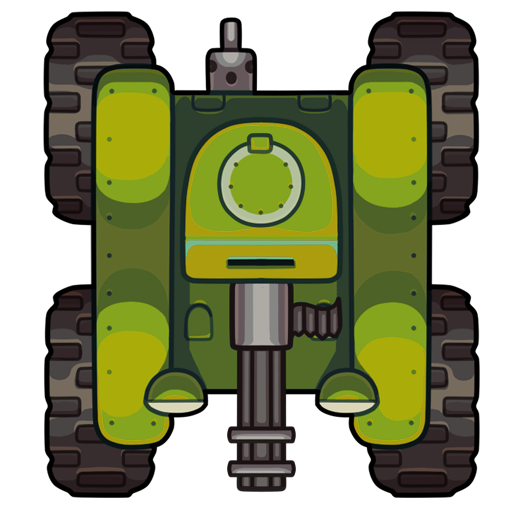
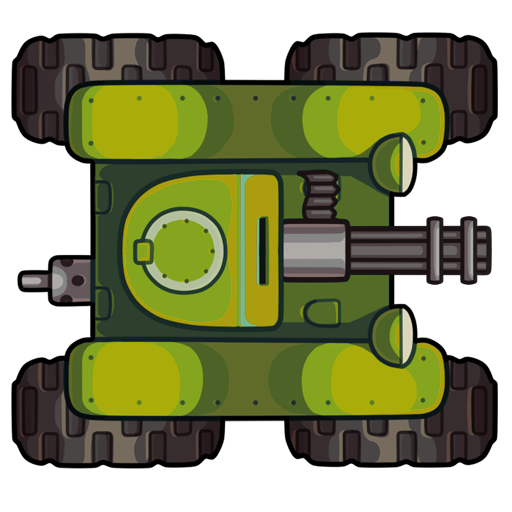
texture_display

diff --git a/src/game.cpp b/src/game.cpp
@@ -1,4 +1,6 @@
 #include "game.hpp"
+#include "assetStore.hpp"
+
 #include "logger.hpp"
 #include "ecs.hpp"
 #include "transformComponent.hpp"
@@ -6,7 +8,6 @@
 #include "movementSystem.hpp"
 #include "spriteComponent.hpp"
 #include "renderSystem.hpp"
-#include "assetStore.hpp"
 
 #include <iostream>
 #include <SDL2/SDL.h>
@@ -17,7 +18,7 @@ Game::Game() {
 	// Constructor implementation
 	isRunning = false;
 	registry = std::make_unique<Registry>();
-	assetStore = std::make_unique<assetStore>();
+	assetStore = std::make_unique<AssetStore>();
 	Logger::Log("Game object created!");
 }
 
@@ -107,20 +108,20 @@ void Game::Setup() {
 	registry->addSystem<renderSystem>();
 
 	// Load assets into the asset store
-	assetStore->addTexture("tank_blue", "./libs/assets/tank_top_blue.png");
-	assetStore->addTexture("tank_green", "./libs/assets/tank_top_green.png");
+	assetStore->addTexture(renderer, "tank_blue", "./libs/assets/tank_top_blue.png");
+	assetStore->addTexture(renderer, "tank_green", "./libs/assets/tank_top_green.png");
 
 	// Create entities and add components to them
 	Entity tank = registry->createEntity();
-	tank.addComponent<transformComponent>(glm::vec2(10.0, 20.0), glm::vec2(1.0, 1.0), 0.0);
-	tank.addComponent<rigidBodyComponent>(glm::vec2(50.0, 0.0));
-	tank.addComponent<spriteComponent>("tank_green", 10.0, 10.0);
+	tank.addComponent<transformComponent>(glm::vec2(10.0, 100.0), glm::vec2(0.05, 0.05), 0.0);
+	tank.addComponent<rigidBodyComponent>(glm::vec2(0.0, 40.0));
+	tank.addComponent<spriteComponent>("tank_blue", 620, 691);
 
 	// Create entities and add components to them
 	Entity helicopter = registry->createEntity();
-	helicopter.addComponent<transformComponent>(glm::vec2(20.0, 50.0), glm::vec2(1.0, 1.0), 0.0);
-	helicopter.addComponent<rigidBodyComponent>(glm::vec2(0.0, 25.0));
-	helicopter.addComponent<spriteComponent>("tank_blue", 1.0, 30.0);
+	helicopter.addComponent<transformComponent>(glm::vec2(20.0, 50.0), glm::vec2(0.05, 0.05), 0.0);
+	helicopter.addComponent<rigidBodyComponent>(glm::vec2(40.0, 0.0));
+	helicopter.addComponent<spriteComponent>("tank_green", 512.0, 512.0);
 }
 
 void Game::Update() {
@@ -150,7 +151,7 @@ void Game::Render() {
 	SDL_RenderClear(renderer);
 
 	// Invoke all the system that need to render
-	registry->getSystem<renderSystem>().Update(renderer);
+	registry->getSystem<renderSystem>().Update(renderer, assetStore);
 
 	SDL_RenderPresent(renderer);
 }

diff --git a/src/renderSystem.hpp b/src/renderSystem.hpp
@@ -1,11 +1,12 @@
 #pragma once
 
-#include <SDL2/SDL.h>
-
 #include "ecs.hpp"
 #include "transformComponent.hpp"
 #include "rigidBodyComponent.hpp"
 #include "spriteComponent.hpp"
+#include "assetStore.hpp"
+
+#include <SDL2/SDL.h>
 
 class renderSystem : public System {
 public:
@@ -14,22 +15,34 @@ public:
 		requireComponent<spriteComponent>();
 	}
 
-	void Update(SDL_Renderer* renderer) {
+	void Update(SDL_Renderer* renderer, std::unique_ptr<AssetStore>& assetStore) {
 		// Update all entities with a transformComponent
 		for (auto entity : getSystemEntities()) {
 			// Update the entity's position based on its velocity
 			const auto transform = entity.getComponent<transformComponent>();
 			const auto sprite = entity.getComponent<spriteComponent>();
 
-			SDL_Rect objRect = {
+			// Set the source rectangle for the sprite texture
+			SDL_Rect srcRect = sprite.srcRect;
+
+			// Set the destination rectangle with x and y position for rendering the sprite texture
+			SDL_Rect dstRect = {
 				static_cast<int>(transform.position.x),
 				static_cast<int>(transform.position.y),
-				sprite.width,
-				sprite.height
+				static_cast<int>(sprite.width * transform.scale.x),
+				static_cast<int>(sprite.height* transform.scale.y)
 			};
-			SDL_SetRenderDrawColor(renderer, 255, 255, 255, 255);
-			SDL_RenderFillRect(renderer, &objRect);
 
+			// Render the PNG texture to the screen at the entity's position
+			SDL_RenderCopyEx(
+				renderer, 
+				assetStore->getTexture(sprite.assetId),
+				&srcRect,
+				&dstRect,
+				transform.rotation,
+				NULL,
+				SDL_FLIP_NONE
+			);
 		}
 	}
 };

diff --git a/src/assetStore.cpp b/src/assetStore.cpp
@@ -1,26 +1,35 @@
-#include "assetStorage.h"
+#include "assetStore.hpp"
 #include "logger.hpp"
 
-assetStore::assetStore() {
+#include <SDL2/SDL_image.h>
+
+AssetStore::AssetStore() {
 	Logger::Log("Asset Store constructor created");
 }
 
-assetStore::~assetStore() {
+AssetStore::~AssetStore() {
+	clearAssets();
 	Logger::Log("Asset Store destructor called");
 }
 
-void assetStore::clearAssets() {
-
+void AssetStore::clearAssets() {
+	for(auto texture : textures) {
+		SDL_DestroyTexture(texture.second);
+	}
+	textures.clear();
 }
 
-void assetStore::clearAssets() {
+void AssetStore::addTexture(SDL_Renderer* renderer, const std::string& assetId, const std::string& filePath) {
+	SDL_Surface* surface = IMG_Load(filePath.c_str());
+	SDL_Texture * texture = SDL_CreateTextureFromSurface(renderer, surface);
+	SDL_FreeSurface(surface);
 
+	// Add texture to the map
+	textures[assetId] = texture;
 }
 
-void assetStore::addTexture(const std::string& assetId, const std::string& filePath) {
+SDL_Texture* AssetStore::getTexture(const std::string& assetId) {
+	return textures[assetId];
 
-}
-
-SDL_Texture* assetStore::getTexture(const std::string& assetId) const {
-
+	Logger::Log("New texture with assetId: " + assetId + " added to asset store");
 }

diff --git a/src/assetStore.hpp b/src/assetStore.hpp
@@ -4,17 +4,17 @@
 #include <string>
 #include <SDL2/SDL.h>
 
-class assetStore {
+class AssetStore {
 	private:
 		std::map<std::string, SDL_Texture*> textures;
 		// TODO: create a map for fonts and sounds
 		// TODO: create a map for music, audio etc
 
 	public:
-		assetStore();
-		~assetStore();
+		AssetStore();
+		~AssetStore();
 
 		void clearAssets();
-		void addTexture(const std::string& assetId, const std::string& filePath);
-		SDL_Texture* getTexture(const std::string& assetId) const;
+		void addTexture(SDL_Renderer* renderer, const std::string& assetId, const std::string& filePath);
+		SDL_Texture* getTexture(const std::string& assetId);
 };

diff --git a/src/spriteComponent.hpp b/src/spriteComponent.hpp
@@ -1,11 +1,19 @@
 #pragma once
 
+#include <string>
+#include <SDL2/SDL.h>
+
 struct spriteComponent {
+	std::string assetId;
 	int width;
 	int height;
+	SDL_Rect srcRect;
 
-	spriteComponent(int width = 0, int height = 0) {
+
+	spriteComponent(std::string assetId = "", int width = 0, int height = 0, int srcRectX = 0, int srcRectY = 0) {
+		this->assetId = assetId;
 		this->height = height;
 		this->width = width;
+		this->srcRect = {srcRectX, srcRectY, width, height};
 	}
 };

diff --git a/src/game.hpp b/src/game.hpp
@@ -1,6 +1,7 @@
 #pragma once
 
 #include <SDL2/SDL.h>
+#include <memory>
 
 #include "ecs.hpp"
 #include "assetStore.hpp"
@@ -18,7 +19,7 @@ private:
 	// Registry* registry
 	std::unique_ptr<Registry> registry;
 	// Asset Store
-	std::unique_ptr<assetStore> assetStore;
+	std::unique_ptr<AssetStore> assetStore;
 
 public:
 	Game();
@@ -33,5 +34,5 @@ public:
 	void Destroy();
 
 	int windowWidth = 0;
-	int windowHeight = 0;;
+	int windowHeight = 0;
 };
